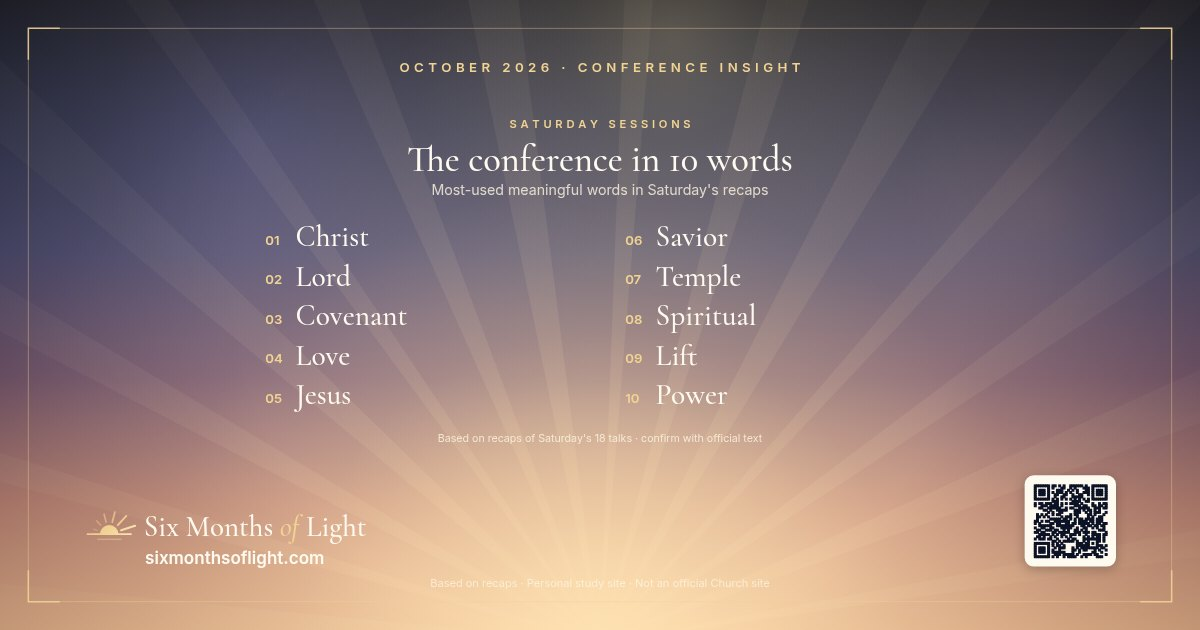
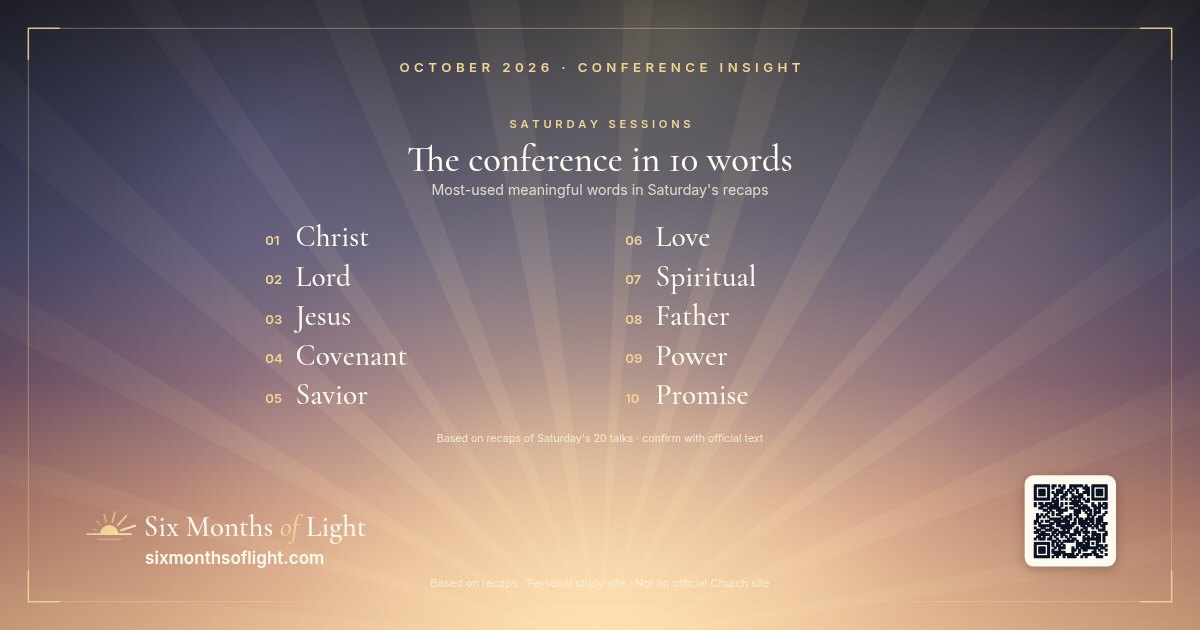
Add Sunday morning: President Chibota “A Child of God”
Church News recap from the in-progress Sunday morning session (second talk up). Quotes and summary from the official Church News article only.

diff --git a/q/sun-am-2-chibota-3.html b/q/sun-am-2-chibota-3.html
@@ -1,0 +1,14 @@
+<!doctype html>
+<html lang="en"><head><meta charset="utf-8"><meta name="viewport" content="width=device-width,initial-scale=1">
+<title>“When we see one another through the Savior’s eyes, hearts change, relationships deepen and faith grows.” — President Rosemary K. Chibota · Six Months of Light</title>
+<meta name="description" content="From “A Child of God” (October 2026 General Conference, as quoted in recaps). Read the recap and make your own quote card.">
+<meta property="og:type" content="article"><meta property="og:site_name" content="Six Months of Light">
+<meta property="og:title" content="“When we see one another through the Savior’s eyes, hearts change, relationships deepen and faith grows.” — President Rosemary K. Chibota"><meta property="og:description" content="From “A Child of God” (October 2026 General Conference, as quoted in recaps). Read the recap and make your own quote card.">
+<meta property="og:url" content="https://sixmonthsoflight.com/q/sun-am-2-chibota-3.html"><meta property="og:image" content="https://sixmonthsoflight.com/assets/og/q/sun-am-2-chibota-3.jpg">
+<meta property="og:image:width" content="1200"><meta property="og:image:height" content="630"><meta property="og:image:alt" content="Quote card: When we see one another through the Savior’s eyes, hearts change, relationships deepen and faith grows. — President Rosemary K. Chibota">
+<meta name="twitter:card" content="summary_large_image"><meta name="twitter:title" content="“When we see one another through the Savior’s eyes, hearts change, relationships deepen and faith grows.” — President Rosemary K. Chibota"><meta name="twitter:description" content="From “A Child of God” (October 2026 General Conference, as quoted in recaps). Read the recap and make your own quote card."><meta name="twitter:image" content="https://sixmonthsoflight.com/assets/og/q/sun-am-2-chibota-3.jpg">
+<meta name="robots" content="noindex,follow"><link rel="icon" href="../assets/logo-mark.svg" type="image/svg+xml">
+<meta http-equiv="refresh" content="0; url=../talks/sun-am-2-chibota.html#q3">
+<style>body{font:16px/1.5 system-ui,sans-serif;background:#0d1326;color:#fffaf0;display:grid;place-items:center;min-height:100vh;margin:0;padding:24px;text-align:center}a{color:#f1d394}</style>
+</head><body><main><p>Opening the quote from President Rosemary K. Chibota…</p><p><a href="../talks/sun-am-2-chibota.html#q3">Continue to Six Months of Light →</a></p><p style="font-size:13px;opacity:.75">Not an official Church site · Personal study page</p></main>
+<script>location.replace("../talks/sun-am-2-chibota.html#q3");</script></body></html>

diff --git a/q/sun-am-2-chibota-1.html b/q/sun-am-2-chibota-1.html
@@ -1,0 +1,14 @@
+<!doctype html>
+<html lang="en"><head><meta charset="utf-8"><meta name="viewport" content="width=device-width,initial-scale=1">
+<title>“The world invites us to focus on labels rather than eternal identity. However, labels can never fully…” — President Rosemary K. Chibota · Six Months of Light</title>
+<meta name="description" content="From “A Child of God” (October 2026 General Conference, as quoted in recaps). Read the recap and make your own quote card.">
+<meta property="og:type" content="article"><meta property="og:site_name" content="Six Months of Light">
+<meta property="og:title" content="“The world invites us to focus on labels rather than eternal identity. However, labels can never fully…” — President Rosemary K. Chibota"><meta property="og:description" content="From “A Child of God” (October 2026 General Conference, as quoted in recaps). Read the recap and make your own quote card.">
+<meta property="og:url" content="https://sixmonthsoflight.com/q/sun-am-2-chibota-1.html"><meta property="og:image" content="https://sixmonthsoflight.com/assets/og/q/sun-am-2-chibota-1.jpg">
+<meta property="og:image:width" content="1200"><meta property="og:image:height" content="630"><meta property="og:image:alt" content="Quote card: The world invites us to focus on labels rather than eternal identity. However, labels can never fully… — President Rosemary K. Chibota">
+<meta name="twitter:card" content="summary_large_image"><meta name="twitter:title" content="“The world invites us to focus on labels rather than eternal identity. However, labels can never fully…” — President Rosemary K. Chibota"><meta name="twitter:description" content="From “A Child of God” (October 2026 General Conference, as quoted in recaps). Read the recap and make your own quote card."><meta name="twitter:image" content="https://sixmonthsoflight.com/assets/og/q/sun-am-2-chibota-1.jpg">
+<meta name="robots" content="noindex,follow"><link rel="icon" href="../assets/logo-mark.svg" type="image/svg+xml">
+<meta http-equiv="refresh" content="0; url=../talks/sun-am-2-chibota.html#q1">
+<style>body{font:16px/1.5 system-ui,sans-serif;background:#0d1326;color:#fffaf0;display:grid;place-items:center;min-height:100vh;margin:0;padding:24px;text-align:center}a{color:#f1d394}</style>
+</head><body><main><p>Opening the quote from President Rosemary K. Chibota…</p><p><a href="../talks/sun-am-2-chibota.html#q1">Continue to Six Months of Light →</a></p><p style="font-size:13px;opacity:.75">Not an official Church site · Personal study page</p></main>
+<script>location.replace("../talks/sun-am-2-chibota.html#q1");</script></body></html>

diff --git a/q/sun-am-2-chibota-2.html b/q/sun-am-2-chibota-2.html
@@ -1,0 +1,14 @@
+<!doctype html>
+<html lang="en"><head><meta charset="utf-8"><meta name="viewport" content="width=device-width,initial-scale=1">
+<title>“When we ask Heavenly Father to help us see others, He guides us to those who feel unseen.” — President Rosemary K. Chibota · Six Months of Light</title>
+<meta name="description" content="From “A Child of God” (October 2026 General Conference, as quoted in recaps). Read the recap and make your own quote card.">
+<meta property="og:type" content="article"><meta property="og:site_name" content="Six Months of Light">
+<meta property="og:title" content="“When we ask Heavenly Father to help us see others, He guides us to those who feel unseen.” — President Rosemary K. Chibota"><meta property="og:description" content="From “A Child of God” (October 2026 General Conference, as quoted in recaps). Read the recap and make your own quote card.">
+<meta property="og:url" content="https://sixmonthsoflight.com/q/sun-am-2-chibota-2.html"><meta property="og:image" content="https://sixmonthsoflight.com/assets/og/q/sun-am-2-chibota-2.jpg">
+<meta property="og:image:width" content="1200"><meta property="og:image:height" content="630"><meta property="og:image:alt" content="Quote card: When we ask Heavenly Father to help us see others, He guides us to those who feel unseen. — President Rosemary K. Chibota">
+<meta name="twitter:card" content="summary_large_image"><meta name="twitter:title" content="“When we ask Heavenly Father to help us see others, He guides us to those who feel unseen.” — President Rosemary K. Chibota"><meta name="twitter:description" content="From “A Child of God” (October 2026 General Conference, as quoted in recaps). Read the recap and make your own quote card."><meta name="twitter:image" content="https://sixmonthsoflight.com/assets/og/q/sun-am-2-chibota-2.jpg">
+<meta name="robots" content="noindex,follow"><link rel="icon" href="../assets/logo-mark.svg" type="image/svg+xml">
+<meta http-equiv="refresh" content="0; url=../talks/sun-am-2-chibota.html#q2">
+<style>body{font:16px/1.5 system-ui,sans-serif;background:#0d1326;color:#fffaf0;display:grid;place-items:center;min-height:100vh;margin:0;padding:24px;text-align:center}a{color:#f1d394}</style>
+</head><body><main><p>Opening the quote from President Rosemary K. Chibota…</p><p><a href="../talks/sun-am-2-chibota.html#q2">Continue to Six Months of Light →</a></p><p style="font-size:13px;opacity:.75">Not an official Church site · Personal study page</p></main>
+<script>location.replace("../talks/sun-am-2-chibota.html#q2");</script></body></html>

diff --git a/i/christ.html b/i/christ.html
@@ -1,12 +1,12 @@
 <!doctype html>
 <html lang="en"><head><meta charset="utf-8"><meta name="viewport" content="width=device-width,initial-scale=1">
 <title>He was named again and again · October 2026 General Conference · Six Months of Light</title>
-<meta name="description" content="Jesus Christ was named 43 times in recaps of 14 of 18 Saturday talks. Based on recaps.">
+<meta name="description" content="Jesus Christ was named 52 times in recaps of 16 of 20 Saturday talks. Based on recaps.">
 <meta property="og:type" content="article"><meta property="og:site_name" content="Six Months of Light">
-<meta property="og:title" content="He was named again and again · October 2026 General Conference"><meta property="og:description" content="Jesus Christ was named 43 times in recaps of 14 of 18 Saturday talks. Based on recaps.">
+<meta property="og:title" content="He was named again and again · October 2026 General Conference"><meta property="og:description" content="Jesus Christ was named 52 times in recaps of 16 of 20 Saturday talks. Based on recaps.">
 <meta property="og:url" content="https://sixmonthsoflight.com/i/christ.html"><meta property="og:image" content="https://sixmonthsoflight.com/assets/og/i/christ.jpg">
 <meta property="og:image:width" content="1200"><meta property="og:image:height" content="630"><meta property="og:image:alt" content="He was named again and again">
-<meta name="twitter:card" content="summary_large_image"><meta name="twitter:title" content="He was named again and again · October 2026 General Conference"><meta name="twitter:description" content="Jesus Christ was named 43 times in recaps of 14 of 18 Saturday talks. Based on recaps."><meta name="twitter:image" content="https://sixmonthsoflight.com/assets/og/i/christ.jpg">
+<meta name="twitter:card" content="summary_large_image"><meta name="twitter:title" content="He was named again and again · October 2026 General Conference"><meta name="twitter:description" content="Jesus Christ was named 52 times in recaps of 16 of 20 Saturday talks. Based on recaps."><meta name="twitter:image" content="https://sixmonthsoflight.com/assets/og/i/christ.jpg">
 <meta name="robots" content="noindex,follow"><link rel="icon" href="../assets/logo-mark.svg" type="image/svg+xml">
 <meta http-equiv="refresh" content="0; url=../insights.html#christ">
 <style>body{font:16px/1.5 system-ui,sans-serif;background:#0d1326;color:#fffaf0;display:grid;place-items:center;min-height:100vh;margin:0;padding:24px;text-align:center}a{color:#f1d394}</style>

diff --git a/i/who-spoke.html b/i/who-spoke.html
@@ -1,12 +1,12 @@
 <!doctype html>
 <html lang="en"><head><meta charset="utf-8"><meta name="viewport" content="width=device-width,initial-scale=1">
-<title>18 talks on Saturday · October 2026 General Conference · Six Months of Light</title>
+<title>20 talks on Saturday · October 2026 General Conference · Six Months of Light</title>
 <meta name="description" content="Who spoke on Saturday of General Conference. Based on recaps.">
 <meta property="og:type" content="article"><meta property="og:site_name" content="Six Months of Light">
-<meta property="og:title" content="18 talks on Saturday · October 2026 General Conference"><meta property="og:description" content="Who spoke on Saturday of General Conference. Based on recaps.">
+<meta property="og:title" content="20 talks on Saturday · October 2026 General Conference"><meta property="og:description" content="Who spoke on Saturday of General Conference. Based on recaps.">
 <meta property="og:url" content="https://sixmonthsoflight.com/i/who-spoke.html"><meta property="og:image" content="https://sixmonthsoflight.com/assets/og/i/who-spoke.jpg">
-<meta property="og:image:width" content="1200"><meta property="og:image:height" content="630"><meta property="og:image:alt" content="18 talks on Saturday">
-<meta name="twitter:card" content="summary_large_image"><meta name="twitter:title" content="18 talks on Saturday · October 2026 General Conference"><meta name="twitter:description" content="Who spoke on Saturday of General Conference. Based on recaps."><meta name="twitter:image" content="https://sixmonthsoflight.com/assets/og/i/who-spoke.jpg">
+<meta property="og:image:width" content="1200"><meta property="og:image:height" content="630"><meta property="og:image:alt" content="20 talks on Saturday">
+<meta name="twitter:card" content="summary_large_image"><meta name="twitter:title" content="20 talks on Saturday · October 2026 General Conference"><meta name="twitter:description" content="Who spoke on Saturday of General Conference. Based on recaps."><meta name="twitter:image" content="https://sixmonthsoflight.com/assets/og/i/who-spoke.jpg">
 <meta name="robots" content="noindex,follow"><link rel="icon" href="../assets/logo-mark.svg" type="image/svg+xml">
 <meta http-equiv="refresh" content="0; url=../insights.html#who-spoke">
 <style>body{font:16px/1.5 system-ui,sans-serif;background:#0d1326;color:#fffaf0;display:grid;place-items:center;min-height:100vh;margin:0;padding:24px;text-align:center}a{color:#f1d394}</style>

diff --git a/i/scriptures.html b/i/scriptures.html
@@ -1,12 +1,12 @@
 <!doctype html>
 <html lang="en"><head><meta charset="utf-8"><meta name="viewport" content="width=device-width,initial-scale=1">
 <title>Back to the scriptures · October 2026 General Conference · Six Months of Light</title>
-<meta name="description" content="17 scripture references in recaps of Saturday&#x27;s talks. Based on recaps.">
+<meta name="description" content="19 scripture references in recaps of Saturday&#x27;s talks. Based on recaps.">
 <meta property="og:type" content="article"><meta property="og:site_name" content="Six Months of Light">
-<meta property="og:title" content="Back to the scriptures · October 2026 General Conference"><meta property="og:description" content="17 scripture references in recaps of Saturday&#x27;s talks. Based on recaps.">
+<meta property="og:title" content="Back to the scriptures · October 2026 General Conference"><meta property="og:description" content="19 scripture references in recaps of Saturday&#x27;s talks. Based on recaps.">
 <meta property="og:url" content="https://sixmonthsoflight.com/i/scriptures.html"><meta property="og:image" content="https://sixmonthsoflight.com/assets/og/i/scriptures.jpg">
 <meta property="og:image:width" content="1200"><meta property="og:image:height" content="630"><meta property="og:image:alt" content="Back to the scriptures">
-<meta name="twitter:card" content="summary_large_image"><meta name="twitter:title" content="Back to the scriptures · October 2026 General Conference"><meta name="twitter:description" content="17 scripture references in recaps of Saturday&#x27;s talks. Based on recaps."><meta name="twitter:image" content="https://sixmonthsoflight.com/assets/og/i/scriptures.jpg">
+<meta name="twitter:card" content="summary_large_image"><meta name="twitter:title" content="Back to the scriptures · October 2026 General Conference"><meta name="twitter:description" content="19 scripture references in recaps of Saturday&#x27;s talks. Based on recaps."><meta name="twitter:image" content="https://sixmonthsoflight.com/assets/og/i/scriptures.jpg">
 <meta name="robots" content="noindex,follow"><link rel="icon" href="../assets/logo-mark.svg" type="image/svg+xml">
 <meta http-equiv="refresh" content="0; url=../insights.html#scriptures">
 <style>body{font:16px/1.5 system-ui,sans-serif;background:#0d1326;color:#fffaf0;display:grid;place-items:center;min-height:100vh;margin:0;padding:24px;text-align:center}a{color:#f1d394}</style>

diff --git a/assets/data.js b/assets/data.js
@@ -514,6 +514,30 @@ window.CONF = {
    "big_idea": "The Lord keeps His promise ‘Fear not, I am with thee’ — and trusts us to help comfort others.",
    "video_embed": null,
    "full_text_permitted": false
+  },
+  {
+   "id": "sun-am-2-chibota",
+   "session": "sun-am",
+   "order": 2,
+   "speaker": "President Rosemary K. Chibota",
+   "calling": "Primary General President",
+   "title": "A Child of God",
+   "recap_url": "https://www.thechurchnews.com/general-conference/2026/10/04/president-rosemary-chibota-october-2026-general-conference-a-child-of-god/",
+   "official_url": null,
+   "summary": "Primary General President Rosemary K. Chibota spoke about seeing each other as children of God. The Southern African greeting “Sawubona” means “I see you” — an acknowledgment of another person’s worth and humanity. Jesus Christ saw people as beloved sons and daughters of God rather than by labels. The world invites focus on labels, but labels never fully capture who we truly are; eternal identity matters more. Whatever labels weigh heavily, Jesus Christ’s grace is sufficient to lift above every label and limitation. She invited disciples this week to learn the name of someone who may feel unseen, pray to see others as Heavenly Father sees them, and replace worldly labels with the eternal truths: child of God, child of the covenant, disciple of Jesus Christ.",
+   "scriptures": [
+    "No specific verses reported in recaps"
+   ],
+   "quotes": [
+    "The world invites us to focus on labels rather than eternal identity. However, labels can never fully capture who we truly are",
+    "When we ask Heavenly Father to help us see others, He guides us to those who feel unseen.",
+    "When we see one another through the Savior’s eyes, hearts change, relationships deepen and faith grows."
+   ],
+   "invitation": "Pray to see others as Heavenly Father sees them; learn the name of someone who may feel unseen.",
+   "ponder": "Whom am I labeling instead of seeing as a child of God?",
+   "big_idea": "See others as children of God — pray to see as He sees, and lift labels with His grace.",
+   "video_embed": null,
+   "full_text_permitted": false
   }
  ],
  "challenge": {

diff --git a/talks/sun-am-2-chibota.html b/talks/sun-am-2-chibota.html
@@ -1,0 +1,34 @@
+<!doctype html>
+<html lang="en">
+<head>
+<meta charset="utf-8">
+<base href="../">
+<meta name="viewport" content="width=device-width,initial-scale=1">
+<title>A Child of God — President Rosemary K. Chibota · Six Months of Light</title>
+<meta name="description" content="See others as children of God — pray to see as He sees, and lift labels with His grace. Six Months of Light: summary, scriptures, quote cards &amp; ponder questions. Not an official Church site.">
+<link rel="canonical" href="https://sixmonthsoflight.com/talks/sun-am-2-chibota.html">
+<meta property="og:type" content="article">
+<meta property="og:site_name" content="Six Months of Light">
+<meta property="og:title" content="A Child of God — President Rosemary K. Chibota">
+<meta property="og:description" content="See others as children of God — pray to see as He sees, and lift labels with His grace. Six Months of Light: summary, scriptures, quote cards &amp; ponder questions. Not an official Church site.">
+<meta property="og:url" content="https://sixmonthsoflight.com/talks/sun-am-2-chibota.html">
+<meta property="og:image" content="https://sixmonthsoflight.com/assets/og/sun-am-2-chibota.jpg">
+<meta property="og:image:width" content="1200"><meta property="og:image:height" content="630">
+<meta property="og:image:alt" content="A Child of God by President Rosemary K. Chibota">
+<meta name="twitter:card" content="summary_large_image">
+<meta name="theme-color" content="#0d1326">
+<link rel="icon" href="assets/logo-mark.svg" type="image/svg+xml">
+<link rel="preload" href="assets/fonts/CormorantGaramond.woff2" as="font" type="font/woff2" crossorigin>
+<link rel="stylesheet" href="assets/styles.css">
+</head>
+<body>
+<main class="wrap" id="main"></main>
+<script>window.TALK_ID = "sun-am-2-chibota";</script>
+<script src="assets/config.js"></script>
+<script src="assets/api.js"></script>
+<script src="assets/data.js"></script>
+<script src="assets/common.js"></script>
+<script src="assets/pages/share.js"></script>
+<script src="assets/pages/talk.js"></script>
+</body>
+</html>

diff --git a/tools/talks_source.py b/tools/talks_source.py
@@ -200,6 +200,15 @@ talks = [
     "We shed tears of joy and take courage whenever we hear the words, ‘Fear not, I am with thee,’ and we are touched that He offers us the trust of helping and loving others."],
    "Join the Lord in keeping His promise — help Him comfort and succor those in distress.",
    "Whom is the Lord inviting me to comfort for Him today?"),
+ t("sun-am-2-chibota", "sun-am", 2, "President Rosemary K. Chibota", "Primary General President", "A Child of God",
+   "https://www.thechurchnews.com/general-conference/2026/10/04/president-rosemary-chibota-october-2026-general-conference-a-child-of-god/",
+   "Primary General President Rosemary K. Chibota spoke about seeing each other as children of God. The Southern African greeting “Sawubona” means “I see you” — an acknowledgment of another person’s worth and humanity. Jesus Christ saw people as beloved sons and daughters of God rather than by labels. The world invites focus on labels, but labels never fully capture who we truly are; eternal identity matters more. Whatever labels weigh heavily, Jesus Christ’s grace is sufficient to lift above every label and limitation. She invited disciples this week to learn the name of someone who may feel unseen, pray to see others as Heavenly Father sees them, and replace worldly labels with the eternal truths: child of God, child of the covenant, disciple of Jesus Christ.",
+   ["No specific verses reported in recaps"],
+   ["The world invites us to focus on labels rather than eternal identity. However, labels can never fully capture who we truly are",
+    "When we ask Heavenly Father to help us see others, He guides us to those who feel unseen.",
+    "When we see one another through the Savior’s eyes, hearts change, relationships deepen and faith grows."],
+   "Pray to see others as Heavenly Father sees them; learn the name of someone who may feel unseen.",
+   "Whom am I labeling instead of seeing as a child of God?"),
 ]
 
 # 60-second recap "big idea" — a one-line condensation of the doc's summary (NOT a quote).
@@ -223,6 +232,7 @@ BIG_IDEAS = {
  "sat-pm-9-eyring": "In turbulent times, the Holy Ghost is the true source of comfort and hope.",
  "sat-pm-10-rasband": "Give your despair for wayward loved ones to Christ, and keep loving like Jesus.",
  "sun-am-1-eyring": "The Lord keeps His promise ‘Fear not, I am with thee’ — and trusts us to help comfort others.",
+ "sun-am-2-chibota": "See others as children of God — pray to see as He sees, and lift labels with His grace.",
 }
 for _t in talks:
     _t["big_idea"] = BIG_IDEAS[_t["id"]]
